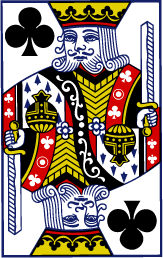
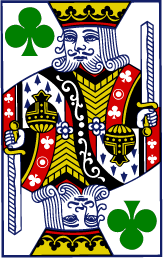
fixing styles

Changed region(s): [[0.6442, 0.7752, 0.9816, 0.9922], [0.0307, 0.031, 0.3374, 0.2171]]

diff --git a/app/assets/stylesheets/cards.css.sass b/app/assets/stylesheets/cards.css.sass
@@ -2,6 +2,19 @@
   font-size: 5px
 
   .card
+    .corner .number
+      font-size: 2.5em
+      height: 1.92em/2
+      line-height: 1.92em/2
+      font-weight: bold
+    .card-ten .corner .number
+      margin-left: -1px
+      font-size: 2.5em
+      font-weight: bold
+    .corner span
+      font-size: 3em
+      font-weight: normal
+
     cursor: pointer
     &.disabled
       cursor: default
@@ -17,9 +30,9 @@
     background-size: cover
     position: absolute
     left: 2.56em
-    top: 2.08em
+    top: 2.58em
     width: 10.8em
-    height: 18.24em
+    height: 17.24em
 
   .suit-c
     color: green
